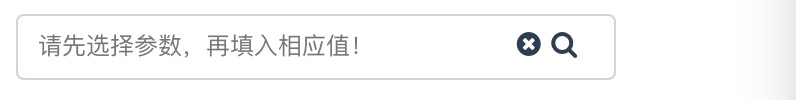
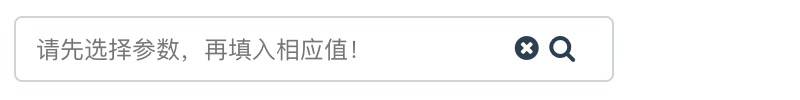
[IMP] buakugan组件

Changed region(s): [[0.0, 0.12, 0.7839, 0.84], [0.6332, 0.3, 0.7236, 0.63]]

diff --git a/docs/new/component/byakugan.md b/docs/new/component/byakugan.md
@@ -55,7 +55,7 @@ selectionConditions: [ // 设置所有可筛选条件
 
 - 搜索展示态
 
-![展示](../../img/byakugan/b-show.png ':size=400x60')
+![展示](../../img/byakugan/b-show.png ':size=400x50')
 
 - 搜索条件选择
 
@@ -66,13 +66,13 @@ selectionConditions: [ // 设置所有可筛选条件
 选中后展示在搜索框中，根据搜索条件不同，分别显示输入态或对应可选择结果供用户选择
 
 *input型搜索：*   
-![展示](../../img/byakugan/b-input.png ':size=400x60')
+![展示](../../img/byakugan/b-input.png ':size=400x50')
 
 *select型搜索：*   
-![展示](../../img/byakugan/b-search.png ':size=400x300')
+![展示](../../img/byakugan/b-search.png ':size=400x260')
 
 - 触发搜索
 
 input型搜索支持回车及放大图标触发搜索，select型搜索在选中搜索值后自动触发搜索
-![展示](../../img/byakugan/b-action.png ':size=400x100')
+![展示](../../img/byakugan/b-action.png ':size=400x90')
 
